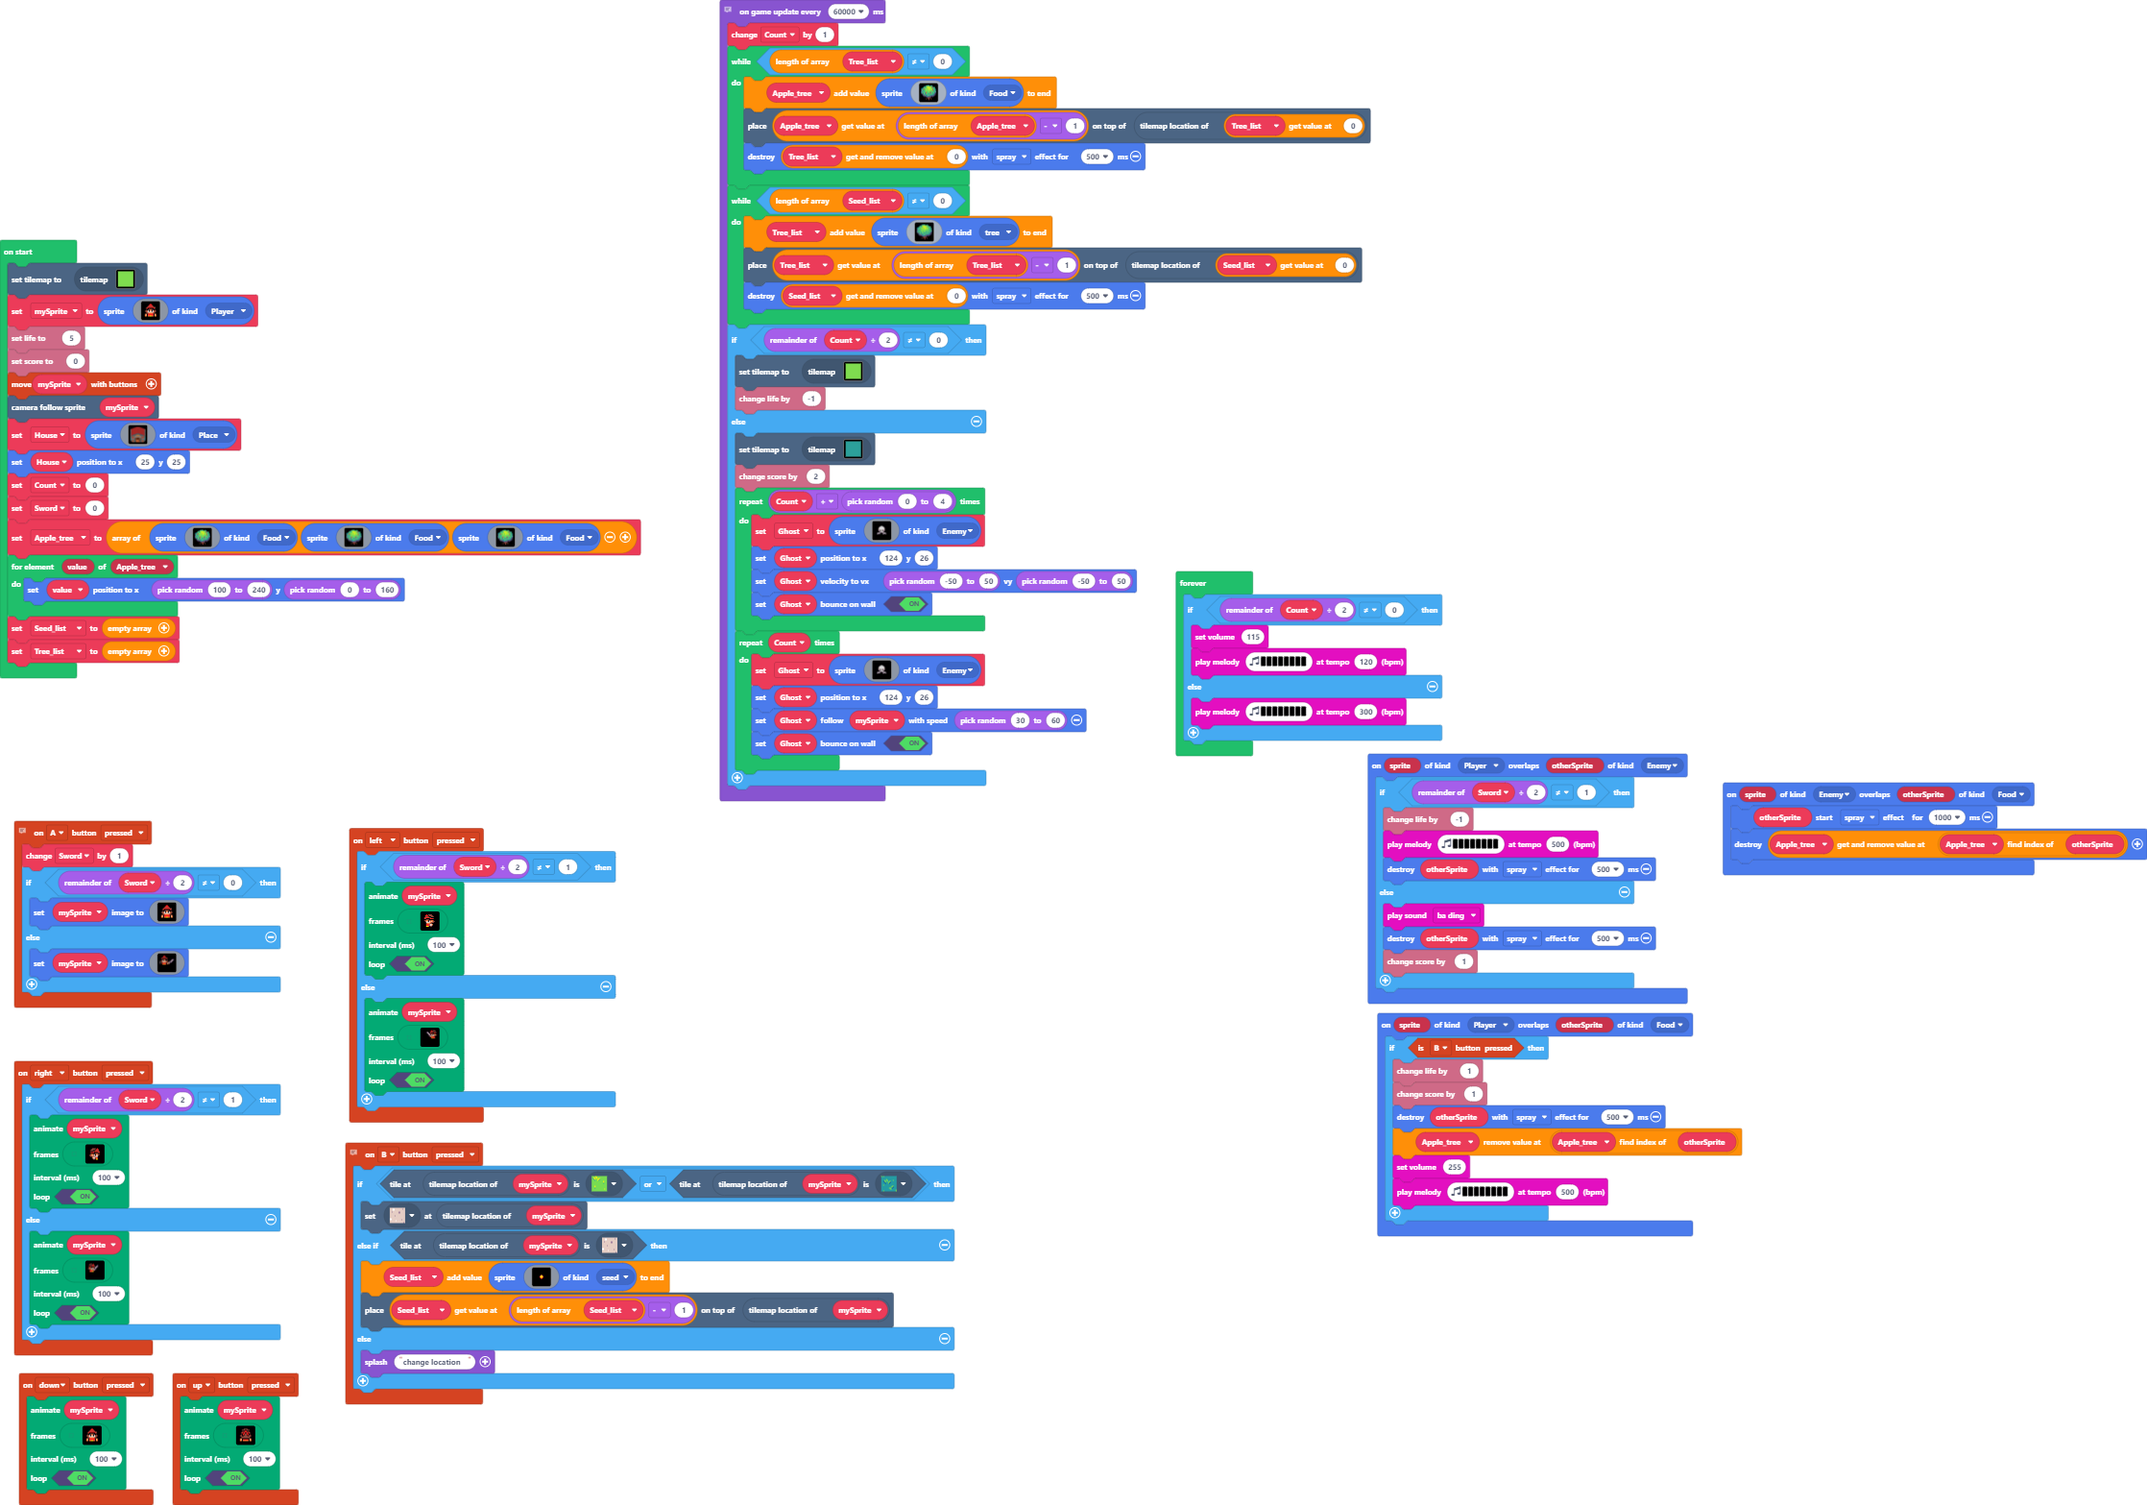
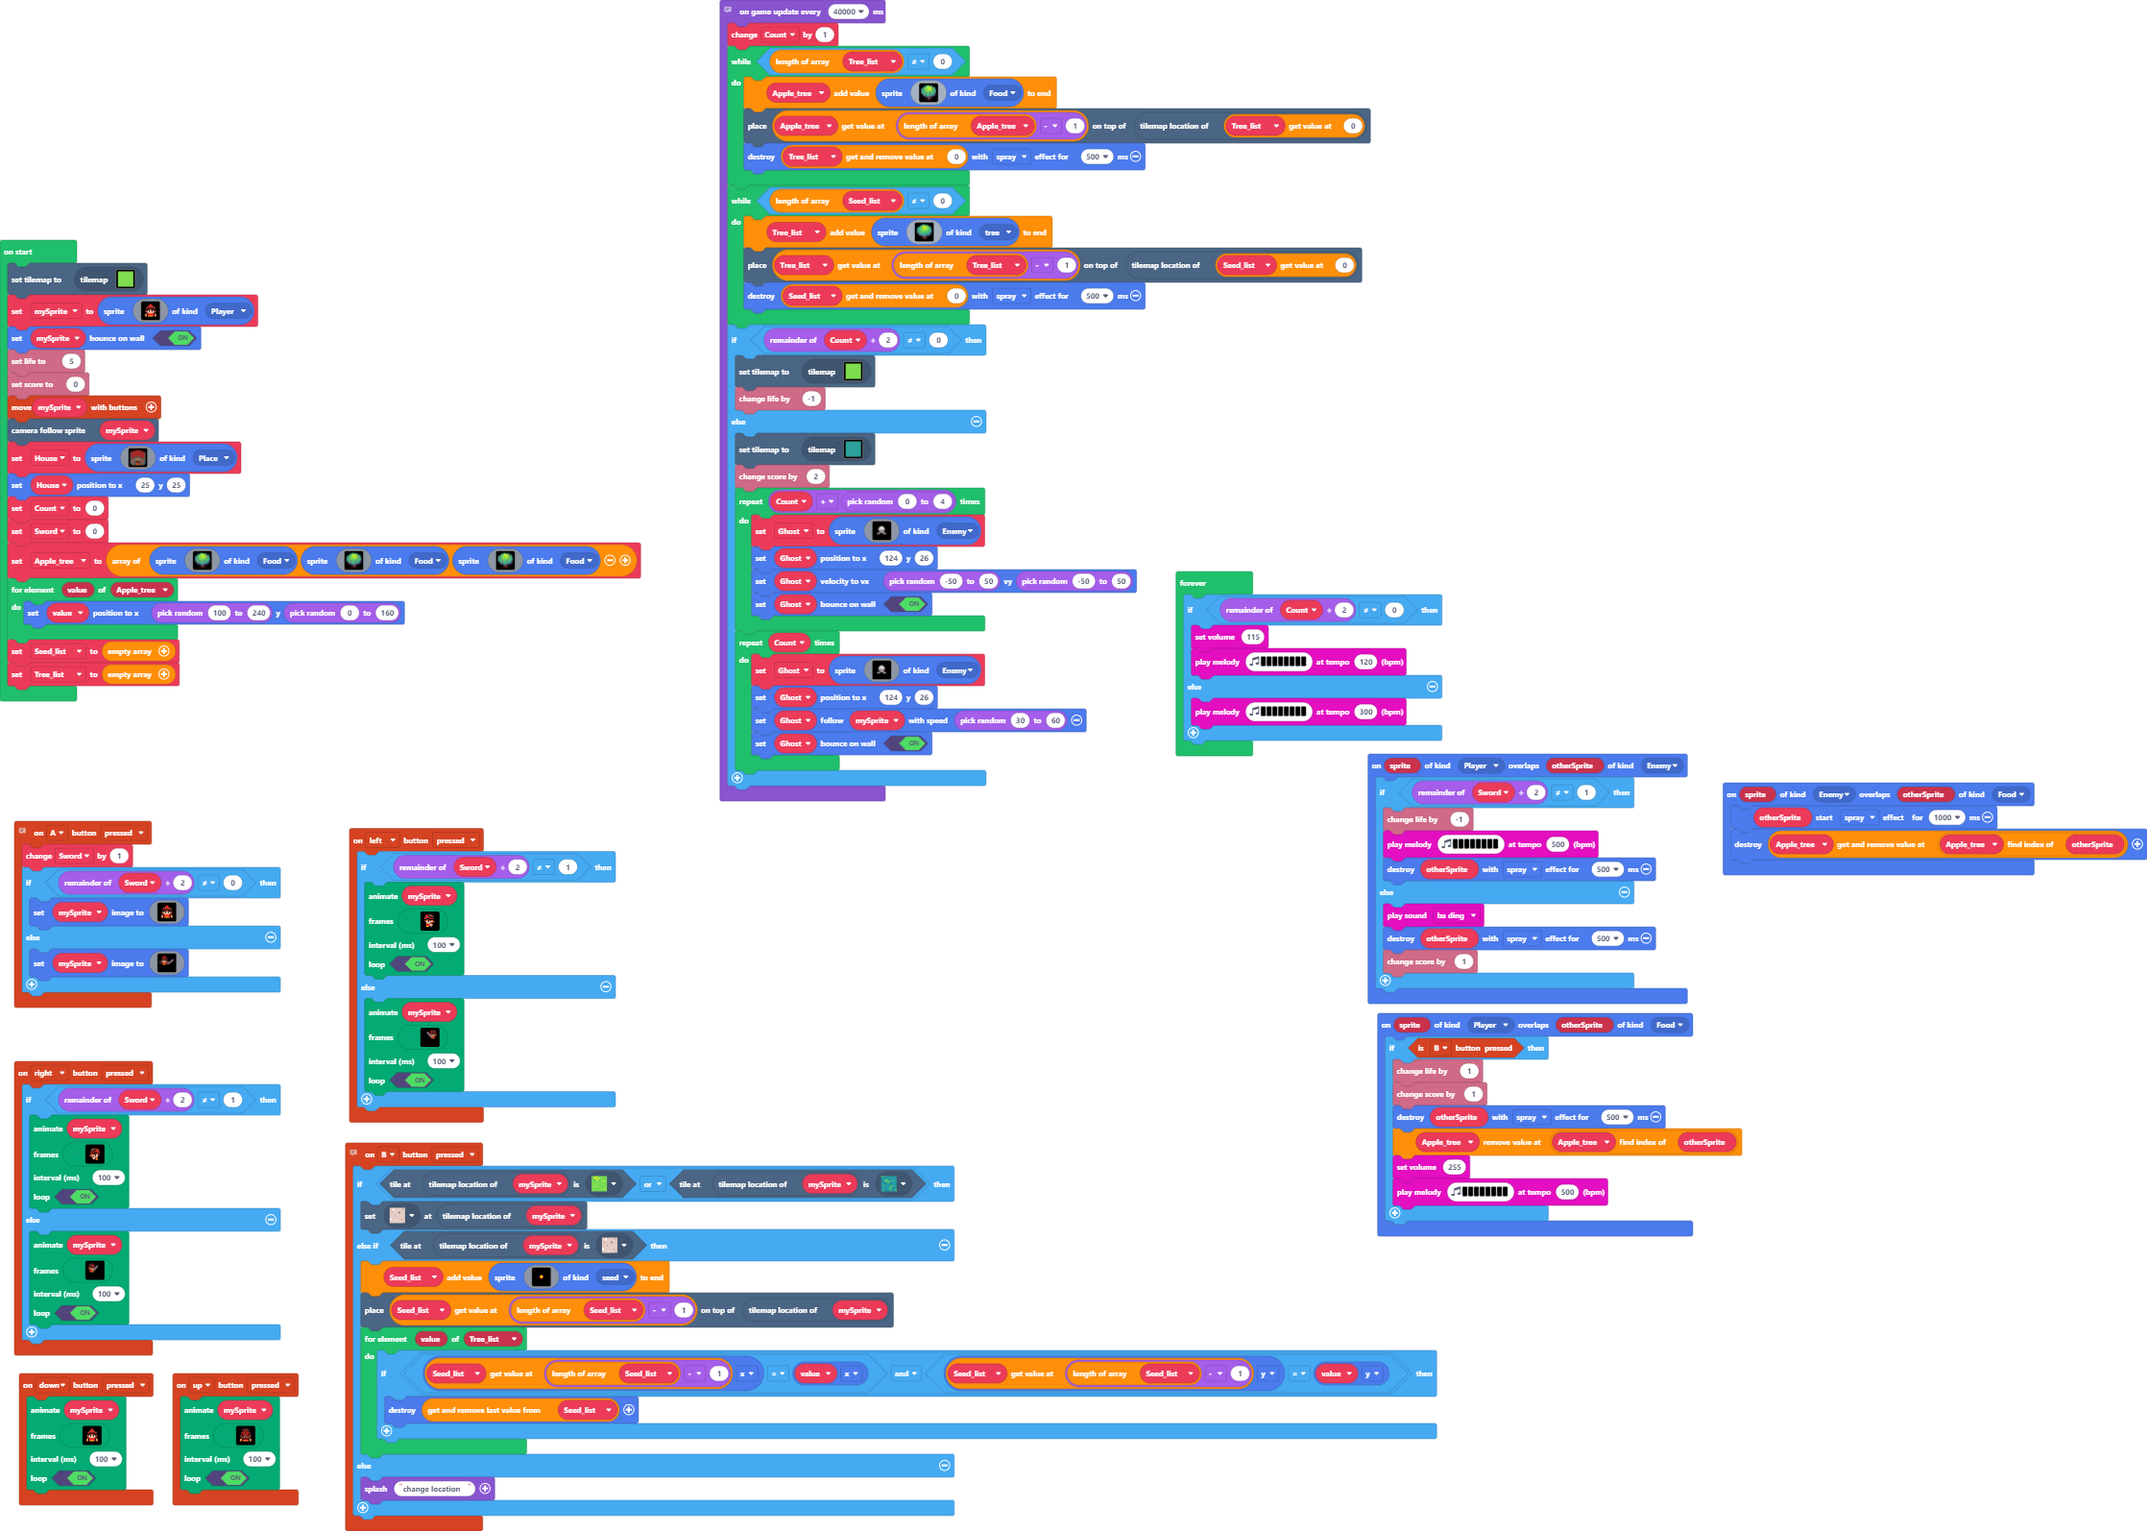
khong trong cay len nhau

Changed region(s): [[0.0, 0.5207, 0.6789, 1.0], [0.3394, 0.0, 1.0, 0.8271], [0.0, 0.1532, 0.3086, 0.4595]]

diff --git a/tilemap.g.ts b/tilemap.g.ts
@@ -4,28 +4,11 @@ namespace myTiles {
     export const transparency16 = image.ofBuffer(hex``);
     //% fixedInstance jres blockIdentity=images._tile
     export const tile1 = image.ofBuffer(hex``);
+    //% fixedInstance jres blockIdentity=images._tile
+    export const tile2 = image.ofBuffer(hex``);
 
     helpers._registerFactory("tilemap", function(name: string) {
         switch(helpers.stringTrim(name)) {
-            case "level1":
-            case "level1":return tiles.createTilemap(hex`1000100001010101010101010101010101010101010101010101010101010101010101010101010101010101010101010101010101010101010101010101010101010101010101010101010101010101010101010101010101010101010101010101010101010101010101010101010101010101010101010101010101010101010101010101010101010101010101010101010101010101010101010101010101010101010101010101010101010101010101010101010101010101010101010101010101010101010101010101010101010101010101010101010101010101010101010101010101010101010101010101010101010101010101010101010101010101`, img`
-. . . . . . . . . . . . . . . . 
-. . . . . . . . . . . . . . . . 
-. . . . . . . . . . . . . . . . 
-. . . . . . . . . . . . . . . . 
-. . . . . . . . . . . . . . . . 
-. . . . . . . . . . . . . . . . 
-. . . . . . . . . . . . . . . . 
-. . . . . . . . . . . . . . . . 
-. . . . . . . . . . . . . . . . 
-. . . . . . . . . . . . . . . . 
-. . . . . . . . . . . . . . . . 
-. . . . . . . . . . . . . . . . 
-. . . . . . . . . . . . . . . . 
-. . . . . . . . . . . . . . . . 
-. . . . . . . . . . . . . . . . 
-. . . . . . . . . . . . . . . . 
-`, [myTiles.transparency16,sprites.castle.tileGrass1], TileScale.Sixteen);
             case "level2":
             case "level2":return tiles.createTilemap(hex`1000100000000000000000000000000000000000000000000000000000000000000000000000000000000000000000000000000000000000000000000000000000000000000000000000000000000000000000000000000000000000000000000000000000000000000000000000000000000000000000000000000000000000000000000000000000000000000000000000000000000000000000000000000000000000000000000000000000000000000000000000000000000000000000000000000000000000000000000000000000000000000000000000000000000000000000000000000000000000000000000000000000000000000000000000000000000000`, img`
 . . . . . . . . . . . . . . . . 
@@ -140,25 +123,6 @@ namespace myTiles {
 . . . . . . . . . . . . . . . . 
 . . . . . . . . . . . . . . . . 
 `, [myTiles.transparency16], TileScale.Sixteen);
-            case "level3":
-            case "level3":return tiles.createTilemap(hex`1000100001010101010101010101010101010101010101010101010101010101010101010101010101010101010101010101010101010101010101010101010101010101010101010101010101010101010101010101010101010101010101010101010101010101010101010101010101010101010101010101010101010101010101010101010101010101010101010101010101010101010101010101010101010101010101010101010101010101010101010101010101010101010101010101010101010101010101010101010101010101010101010101010101010101010101010101010101010101010101010101010101010101010101010101010101010101`, img`
-. . . . . . . . . . . . . . . . 
-. . . . . . . . . . . . . . . . 
-. . . . . . . . . . . . . . . . 
-. . . . . . . . . . . . . . . . 
-. . . . . . . . . . . . . . . . 
-. . . . . . . . . . . . . . . . 
-. . . . . . . . . . . . . . . . 
-. . . . . . . . . . . . . . . . 
-. . . . . . . . . . . . . . . . 
-. . . . . . . . . . . . . . . . 
-. . . . . . . . . . . . . . . . 
-. . . . . . . . . . . . . . . . 
-. . . . . . . . . . . . . . . . 
-. . . . . . . . . . . . . . . . 
-. . . . . . . . . . . . . . . . 
-. . . . . . . . . . . . . . . . 
-`, [myTiles.transparency16,sprites.castle.tileGrass1], TileScale.Sixteen);
             case "level9":
             case "level9":return tiles.createTilemap(hex`1000100001010101010101010101010101010101010101010101010101010101010101010101010101010101010101010101010101010101010101010101010101010101010101010101010101010101010101010101010101010101010101010101010101010101010101010101010101010101010101010101010101010101010101010101010101010101010101010101010101010101010101010101010101010101010101010101010101010101010101010101010101010101010101010101010101010101010101010101010101010101010101010101010101010101010101010101010101010101010101010101010101010101010101010101010101010101`, img`
 . . . . . . . . . . . . . . . . 
@@ -558,6 +522,87 @@ namespace myTiles {
 . . . . . . . . . . . . . . . . 
 . . . . . . . . . . . . . . . . 
 `, [myTiles.transparency16], TileScale.Sixteen);
+            case "level3":
+            case "level3":return tiles.createTilemap(hex`2800280001010101010101010101010101010101000000000000000000000000000000000000000000000000010101010101010101010101010101010000000000000000000000000000000000000000000000000101010101010101010101010101010100000000000000000000000000000000000000000000000001010101010101010101010101010101000000000000000000000000000000000000000000000000010101010101010101010101010101010000000000000000000000000000000000000000000000000101010101010101010101010101010100000000000000000000000000000000000000000000000001010101010101010101010101010101000101000000000000000000000000000000000000000000010101010101010101010101010101010001010100000000000000000000000000000000000000000101010101010101010101010101010100010101000000000000000000000000000000000000000001010101010101010101010101010101000101000000000000000000000000000000000000000000010101010101010101010101010101010000000000000000000000000000000000000000000000000101010101010101010101010101010100000000000000000000000000000000000000000000000001010101010101010101010101010101000000000000000000000000000000000000000000000000010101010101010101010101010101010000000000000000000000000000000000000000000000000101010101010101010101010101010100000000000000000000000000000000000000000000000001010101010101010101010101010101000000000000000000000000000000000000000000000000000000000000000000000000000000000000000000000000000000000000000000000000000000000000000000000000000000000000000000000000000000000000000000000000000000000000000000000000000000000000000000000000000000000000000000000000000000000000000000000000000000000000000000000000000000000000000000000000000000000000000000000000000000000000000000000000000000000000000000000000000000000000000000000000000000000000000000000000000000000000000000000000000000000000000000000000000000000000000000000000000000000000000000000000000000000000000000000000000000000000000000000000000000000000000000000000000000000000000000000000000000000000000000000000000000000000000000000000000000000000000000000000000000000000000000000000000000000000000000000000000000000000000000000000000000000000000000000000000000000000000000000000000000000000000000000000000000000000000000000000000000000000000000000000000000000000000000000000000000000000000000000000000000000000000000000000000000000000000000000000000000000000000000000000000000000000000000000000000000000000000000000000000000000000000000000000000000000000000000000000000000000000000000000000000000000000000000000000000000000000000000000000000000000000000000000000000000000000000000000000000000000000000000000000000000000000000000000000000000000000000000000000000000000000000000000000000000000000000000000000000000000000000000000000000000000000000000000000000000000000000000000000000000000000000000000000000000000000000000000000000000000000000000000000000000000000000000000000000000000000000000000000000000000000000000000000000000000000000000000000000000000000000000000000000000000000000000000000000000000000000000000000000000000000000000000000000000000000000000000000000000000000000000000000000000000000000000000000000000000000000000000000000000000000000000000000000000000000000000000000000000000000000000000000000000000000000000000000000000000000000000000000000000000000000000000000000000000000000000000000`, img`
+........................................
+........................................
+........................................
+........................................
+........................................
+........................................
+........................................
+........................................
+........................................
+........................................
+........................................
+........................................
+........................................
+........................................
+........................................
+........................................
+........................................
+........................................
+........................................
+........................................
+........................................
+........................................
+........................................
+........................................
+........................................
+........................................
+........................................
+........................................
+........................................
+........................................
+........................................
+........................................
+........................................
+........................................
+........................................
+........................................
+........................................
+........................................
+........................................
+........................................
+`, [myTiles.transparency16,sprites.castle.tileGrass1], TileScale.Sixteen);
+            case "level1":
+            case "level1":return tiles.createTilemap(hex`1000100001010101010101010101010101010101010101010101010101010101010101010101010101010101010101010101010101010101010101010101010101010101010101010101010101010101010101010101010101010101010101010101010101010101010101010101010101010101010101010101010101010101010101010101010101010101010101010101010101010101010101010101010101010101010101010101010101010101010101010101010101010101010101010101010101010101010101010101010101010101010101010101010101010101010101010101010101010101010101010101010101010101010101010101010101010101`, img`
+. . . . . . . . . . . . . . . . 
+. . . . . . . . . . . . . . . . 
+. . . . . . . . . . . . . . . . 
+. . . . . . . . . . . . . . . . 
+. . . . . . . . . . . . . . . . 
+. . . . . . . . . . . . . . . . 
+. . . . . . . . . . . . . . . . 
+. . . . . . . . . . . . . . . . 
+. . . . . . . . . . . . . . . . 
+. . . . . . . . . . . . . . . . 
+. . . . . . . . . . . . . . . . 
+. . . . . . . . . . . . . . . . 
+. . . . . . . . . . . . . . . . 
+. . . . . . . . . . . . . . . . 
+. . . . . . . . . . . . . . . . 
+. . . . . . . . . . . . . . . . 
+`, [myTiles.transparency16,sprites.castle.tileGrass1], TileScale.Sixteen);
+            case "level30":
+            case "level30":return tiles.createTilemap(hex`1000100000000000000000000000000000000000000000000000000000000000000000000000000000000000000000000000000000000000000000000000000000000000000000000000000000000000000000000000000000000000000000000000000000000000000000000000000000000000000000000000000000000000000000000000000000000000000000000000000000000000000000000000000000000000000000000000000000000000000000000000000000000000000000000000000000000000000000000000000000000000000000000000000000000000000000000000000000000000000000000000000000000000000000000000000000000000`, img`
+. . . . . . . . . . . . . . . . 
+. . . . . . . . . . . . . . . . 
+. . . . . . . . . . . . . . . . 
+. . . . . . . . . . . . . . . . 
+. . . . . . . . . . . . . . . . 
+. . . . . . . . . . . . . . . . 
+. . . . . . . . . . . . . . . . 
+. . . . . . . . . . . . . . . . 
+. . . . . . . . . . . . . . . . 
+. . . . . . . . . . . . . . . . 
+. . . . . . . . . . . . . . . . 
+. . . . . . . . . . . . . . . . 
+. . . . . . . . . . . . . . . . 
+. . . . . . . . . . . . . . . . 
+. . . . . . . . . . . . . . . . 
+. . . . . . . . . . . . . . . . 
+`, [myTiles.transparency16], TileScale.Sixteen);
         }
         return null;
     })
@@ -567,6 +612,8 @@ namespace myTiles {
             case "transparency16":return transparency16;
             case "myTile":
             case "tile1":return tile1;
+            case "myTile0":
+            case "tile2":return tile2;
         }
         return null;
     })

diff --git a/main.ts b/main.ts
@@ -104,6 +104,11 @@ controller.B.onEvent(ControllerButtonEvent.Pressed, function () {
             . . . . . . . . . . . . . . . . 
             `, SpriteKind.seed))
         tiles.placeOnTile(Seed_list[Seed_list.length - 1], mySprite.tilemapLocation())
+        for (let value of Tree_list) {
+            if (Seed_list[Seed_list.length - 1].x == value.x && Seed_list[Seed_list.length - 1].y == value.y) {
+                Seed_list.pop().destroy()
+            }
+        }
     } else {
         game.splash("change location")
     }
@@ -632,11 +637,12 @@ sprites.onOverlap(SpriteKind.Player, SpriteKind.Enemy, function (sprite, otherSp
     }
 })
 let Ghost: Sprite = null
+let Tree_list: Sprite[] = []
 let Seed_list: Sprite[] = []
 let Apple_tree: Sprite[] = []
 let Sword = 0
 let mySprite: Sprite = null
-tiles.setCurrentTilemap(tilemap`level3`)
+tiles.setCurrentTilemap(tilemap`level1`)
 mySprite = sprites.create(img`
     . . . . . . f f f f . . . . . . 
     . . . . f f f 2 2 f f f . . . . 
@@ -655,6 +661,7 @@ mySprite = sprites.create(img`
     . . . . . f f f f f f . . . . . 
     . . . . . f f . . f f . . . . . 
     `, SpriteKind.Player)
+mySprite.setBounceOnWall(true)
 info.setLife(5)
 info.setScore(0)
 controller.moveSprite(mySprite)
@@ -816,10 +823,18 @@ for (let value of Apple_tree) {
     value.setPosition(randint(100, 240), randint(0, 160))
 }
 Seed_list = []
-let Tree_list: Sprite[] = []
+Tree_list = []
+forever(function () {
+    if (Count % 2 != 0) {
+        music.setVolume(115)
+        music.playMelody("C5 B G E F D C D ", 120)
+    } else {
+        music.playMelody("C5 B C5 A B G A F ", 300)
+    }
+})
 // days and nights
-// 
-game.onUpdateInterval(60000, function () {
+// 80s = 1day
+game.onUpdateInterval(40000, function () {
     Count += 1
     while (Tree_list.length != 0) {
         Apple_tree.push(sprites.create(img`
@@ -965,13 +980,5 @@ game.onUpdateInterval(60000, function () {
             Ghost.follow(mySprite, randint(30, 60))
             Ghost.setBounceOnWall(true)
         }
-    }
-})
-forever(function () {
-    if (Count % 2 != 0) {
-        music.setVolume(115)
-        music.playMelody("C5 B G E F D C D ", 120)
-    } else {
-        music.playMelody("C5 B C5 A B G A F ", 300)
     }
 })
